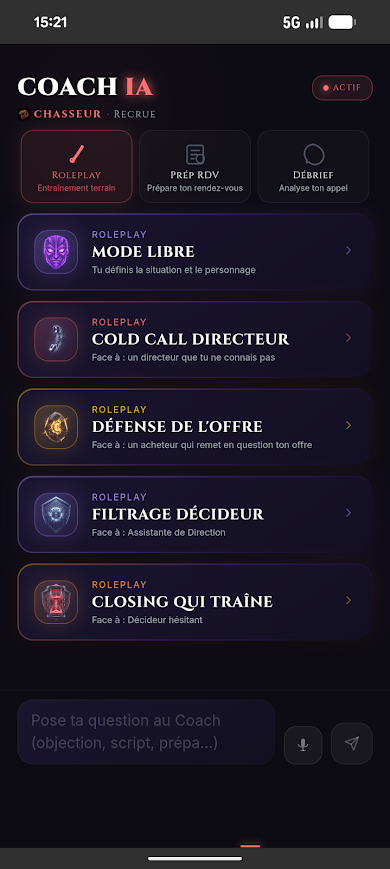
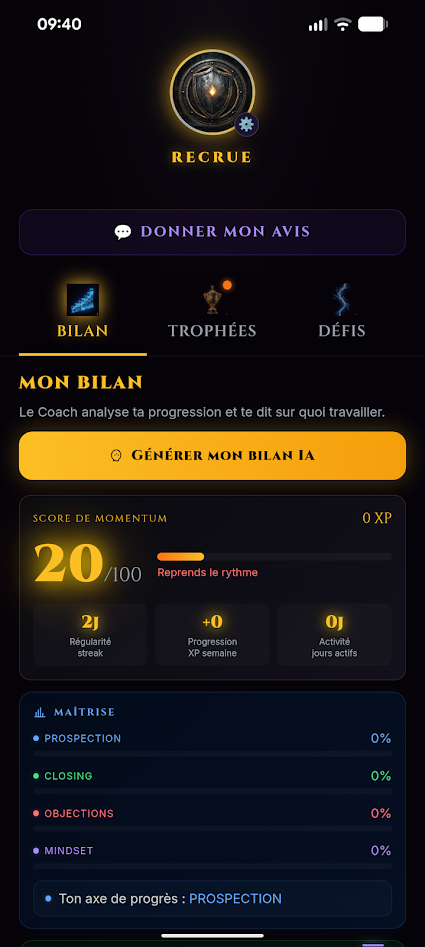
Add files via upload

diff --git a/index.html b/index.html
@@ -85,6 +85,8 @@
   .feat:hover{transform:translateY(-3px);border-color:var(--violet)}
   .feat .ic{font-size:30px;margin-bottom:16px}
   .feat .ic svg{width:48px;height:48px;display:block}
+  .feat .ic img{width:76px;height:76px;object-fit:contain;display:block;transition:transform .25s ease}
+  .feat:hover .ic img{transform:scale(1.08)}
   .feat h3{font-size:20px;text-transform:uppercase;margin-bottom:10px}
   .feat p{font-size:14.5px;color:var(--text-dim)}
 
@@ -95,8 +97,8 @@
   @media(max-width:760px){.trophy-row img{width:84px;height:84px}}
 
   .screens{text-align:center}
-  .screens-row{display:flex;gap:32px;justify-content:center;flex-wrap:wrap;margin-top:8px}
-  .phone{margin:0;max-width:300px}
+  .screens-row{display:flex;gap:28px;justify-content:center;flex-wrap:wrap;margin-top:8px}
+  .phone{margin:0;max-width:270px}
   .phone img{width:100%;border-radius:26px;border:1px solid var(--line);box-shadow:0 20px 60px rgba(0,0,0,.5),0 0 0 1px rgba(255,255,255,.04);display:block}
   .phone figcaption{margin-top:16px;font-size:14px;color:var(--text-dim);max-width:280px;margin-left:auto;margin-right:auto}
   @media(max-width:760px){.phone{max-width:260px}.screens-row{gap:36px}}
@@ -243,21 +245,21 @@
     </div>
     <div class="feat-grid">
       <div class="feat">
-        <div class="ic"><svg viewBox="0 0 48 48" fill="none" xmlns="http://www.w3.org/2000/svg"><circle cx="24" cy="24" r="19" stroke="var(--gold)" stroke-width="2.5"/><circle cx="24" cy="24" r="11" stroke="var(--gold)" stroke-width="2.5"/><circle cx="24" cy="24" r="3.5" fill="var(--gold)"/><path d="M24 2v8M24 38v8M2 24h8M38 24h8" stroke="var(--gold)" stroke-width="2.5" stroke-linecap="round"/></svg></div>
+        <div class="ic"><img src="icon-coach.svg" alt="Coach" loading="lazy"></div>
         <h3>Le Coach</h3>
         <p>Lancez un scénario : votre coach joue votre interlocuteur — prospect difficile, client
         mécontent, collaborateur à recadrer. Vous menez l'échange en conditions réelles, puis vous
         recevez un débrief argumenté sur votre performance. Il s'adapte même à votre secteur.</p>
       </div>
       <div class="feat">
-        <div class="ic"><svg viewBox="0 0 48 48" fill="none" xmlns="http://www.w3.org/2000/svg"><path d="M8 8l20 20M8 8l4 0 0 4M14 22l-6 6 4 4 6-6" stroke="var(--gold)" stroke-width="2.5" stroke-linecap="round" stroke-linejoin="round"/><path d="M40 8L20 28M40 8l-4 0 0 4M34 22l6 6-4 4-6-6" stroke="var(--gold)" stroke-width="2.5" stroke-linecap="round" stroke-linejoin="round"/></svg></div>
+        <div class="ic"><img src="icon-arsenal.svg" alt="Arsenal" loading="lazy"></div>
         <h3>L'Arsenal</h3>
         <p>Des dizaines de techniques classées par thème — prospection, closing, objections, mindset.
         Chaque fiche pointe l'erreur à éviter et la bonne approche. Puis des modes d'entraînement pour
         ancrer ce que vous apprenez.</p>
       </div>
       <div class="feat">
-        <div class="ic"><svg viewBox="0 0 48 48" fill="none" xmlns="http://www.w3.org/2000/svg"><path d="M14 8h20v10a10 10 0 01-20 0V8z" stroke="var(--gold)" stroke-width="2.5" stroke-linejoin="round"/><path d="M14 12H8v3a6 6 0 006 6M34 12h6v3a6 6 0 01-6 6" stroke="var(--gold)" stroke-width="2.5" stroke-linecap="round" stroke-linejoin="round"/><path d="M24 28v6M18 40h12M20 40l1-6h6l1 6" stroke="var(--gold)" stroke-width="2.5" stroke-linecap="round" stroke-linejoin="round"/></svg></div>
+        <div class="ic"><img src="trophy-hero.svg" alt="Progression" loading="lazy"></div>
         <h3>La progression</h3>
         <p>Un QCM quotidien en répétition espacée qui ancre durablement les techniques, des défis, des
         séries, des rangs et des trophées. SalesQuest transforme l'entraînement en habitude — quelques
@@ -300,8 +302,12 @@
         <figcaption>Une bibliothèque de situations réelles, adaptées à votre profil.</figcaption>
       </figure>
       <figure class="phone">
-        <img src="coach-roleplay.png" alt="Un roleplay en cours avec le Coach" loading="lazy">
-        <figcaption>Votre coach objecte comme un vrai interlocuteur. À vous de le convaincre.</figcaption>
+        <img src="screen-accueil.png" alt="L'écran d'accueil de SalesQuest" loading="lazy">
+        <figcaption>Série, défis du jour, progression : un entraînement qui devient une habitude.</figcaption>
+      </figure>
+      <figure class="phone">
+        <img src="screen-arsenal.png" alt="L'Arsenal des techniques de vente" loading="lazy">
+        <figcaption>L'Arsenal : les techniques classées par thème, à maîtriser puis affronter en Boss.</figcaption>
       </figure>
     </div>
   </div>